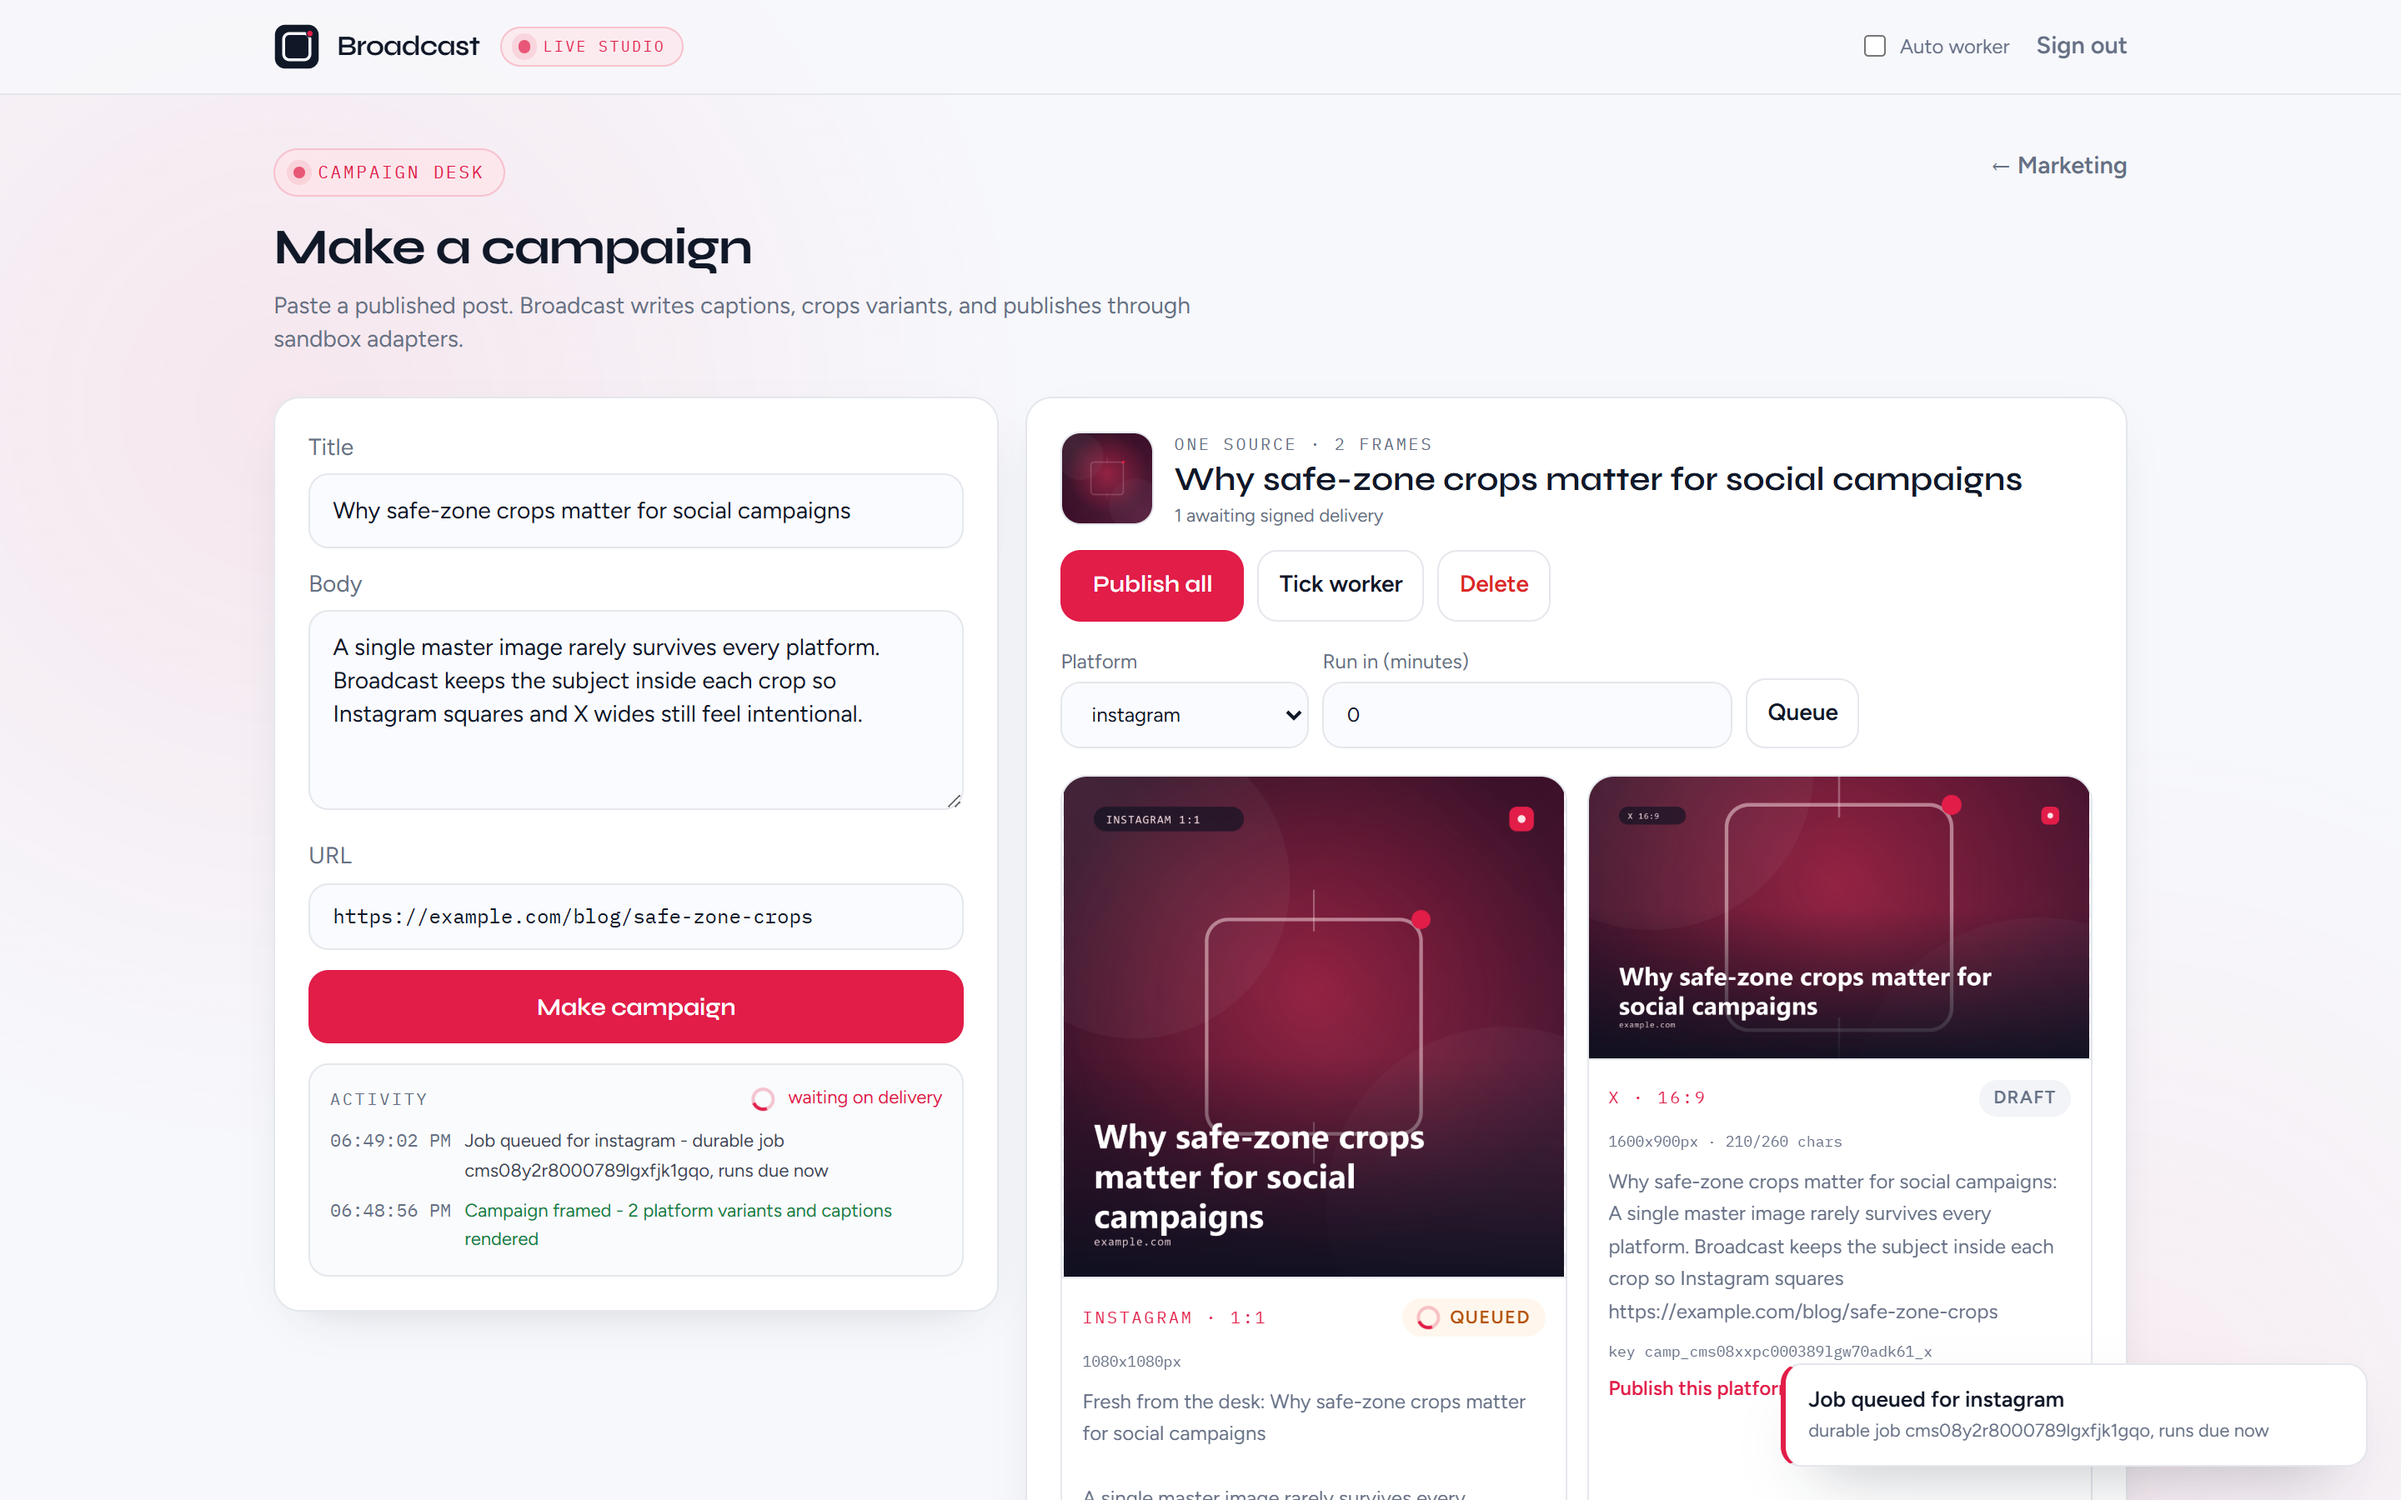
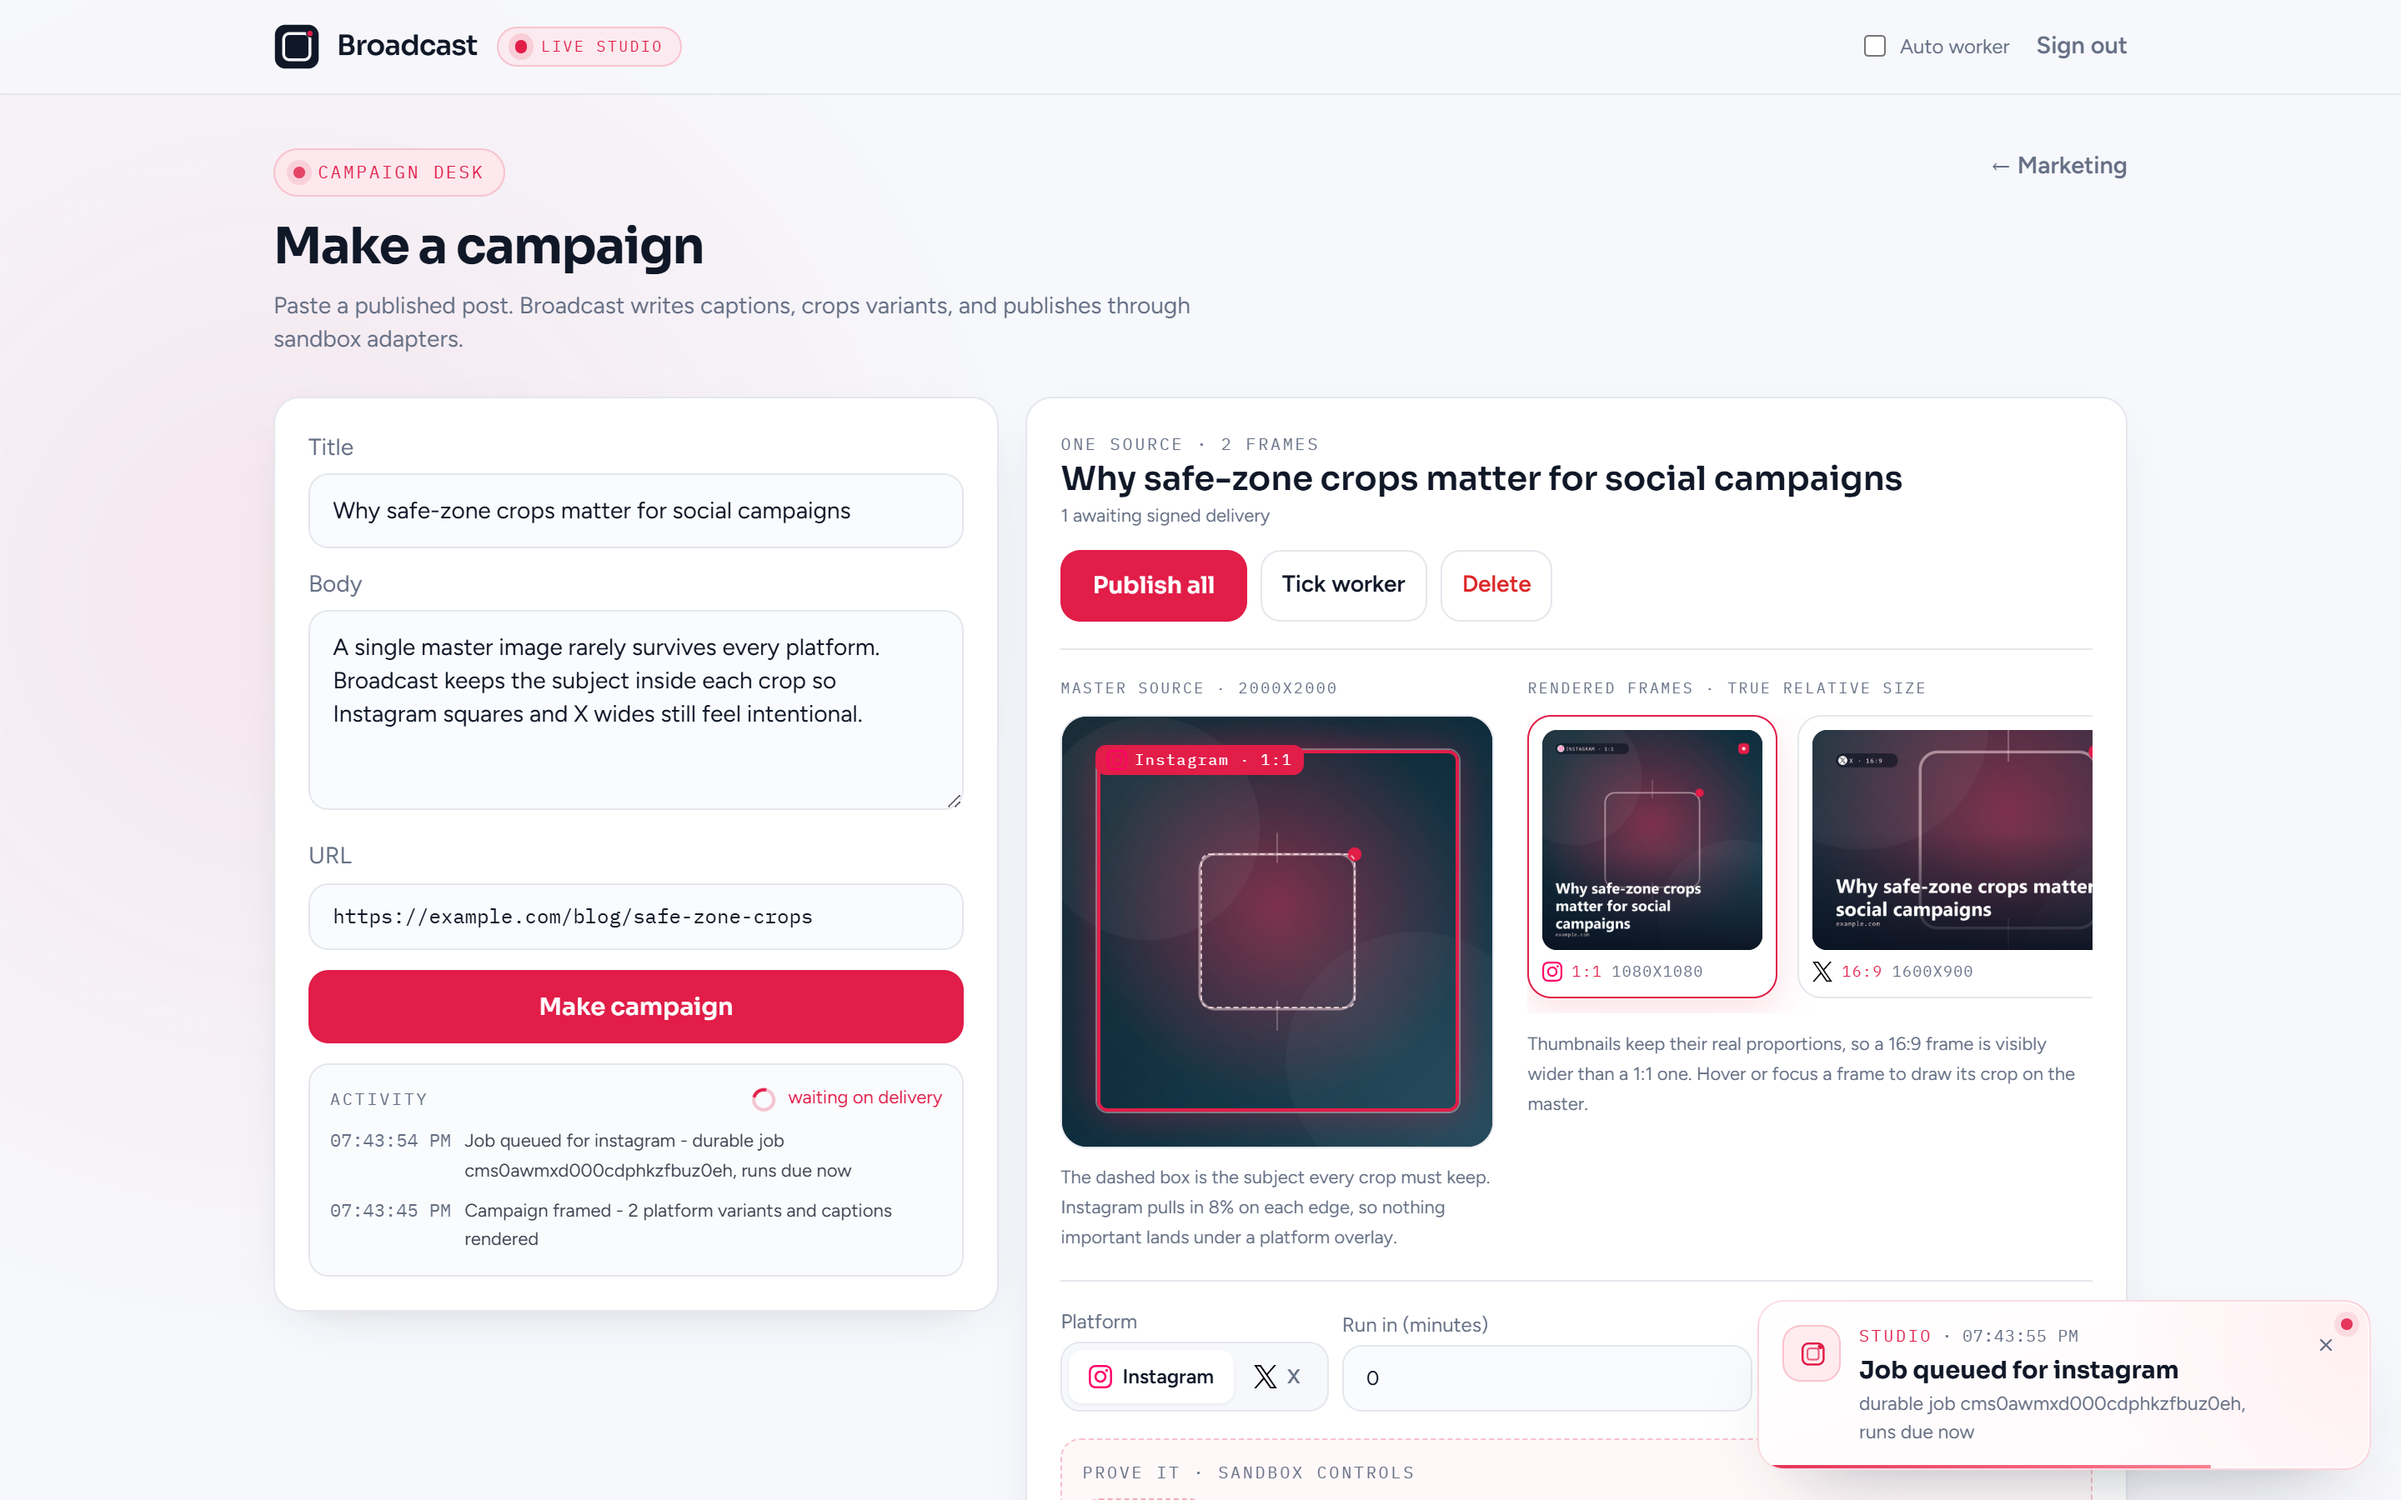
Document the frame studio, caption edits, and sandbox controls with real screenshots

diff --git a/README.md b/README.md
@@ -26,9 +26,25 @@ Broadcast is that studio. Paste a published post, get platform-sized variants an
 
 ## Campaign desk
 
+A first visit does not drop you on an empty board. Three steps tell you exactly what to press, and the form arrives pre-filled so **Make campaign** works immediately.
+
+![Broadcast campaign desk on first run, showing a pre-filled form and a three step guide](docs/images/broadcast-firstrun.png)
+
 Sign in with the demo API key and paste a post. One source image becomes two frames: a 1:1 Instagram render and a 16:9 X render, each previewed at its true aspect ratio with its own caption, pixel size, and character budget.
 
 ![Broadcast campaign desk showing one source rendered into a 1:1 Instagram frame and a 16:9 X frame](docs/images/broadcast-campaign.png)
+
+### One source, every frame
+
+The crop is not a claim in the copy, it is drawn on the master image. The dashed box is the subject every crop has to keep, the rose box is the region a platform actually takes, and the rail on the right holds the rendered frames at their true relative size, so a 16:9 render is visibly wider than a 1:1 one. Hover a frame to pin its crop. The overlay and the render pipeline share one `computeCrop` implementation, and a test asserts they agree.
+
+![Broadcast frame studio showing the Instagram crop drawn on the master source image beside true-size rendered frames](docs/images/broadcast-frames.png)
+
+### Editable captions
+
+Generated copy is a starting point, not a verdict. Edit either caption in place and save. The idempotency key never changes, so republishing edited copy is a replay against the platform rather than a second remote post.
+
+![Broadcast post cards with the Instagram caption open for editing beside the published X caption](docs/images/broadcast-caption-edit.png)
 
 Nothing happens silently. Queue a platform and the durable job id, the countdown, a spinner on the queued row, and a toast all say so. Switch **Auto worker** off to hold a job in the queue and inspect it.
 
@@ -39,6 +55,14 @@ When the fake platform returns a signature-verified delivery webhook, the row fl
 ![Broadcast campaign board with both platforms published and a timestamped activity log](docs/images/broadcast-published.png)
 
 ![Broadcast platform board showing published Instagram and X variants with remote ids and delivery times](docs/images/broadcast-board.png)
+
+### Sandbox controls
+
+The three hardest guarantees are usually buried in a test run. Here they are buttons. **Force 429** puts the platform into rate-limited mode so the next publish visibly waits on `Retry-After`. **Replay webhook** asks the platform to re-send the same signed delivery, and the row stays published instead of duplicating. **Forge webhook** sends a well-formed payload signed with the wrong secret to the real webhook route, which answers `400 Invalid signature` and leaves the status untouched.
+
+![Broadcast sandbox controls panel with a Force 429 toggle](docs/images/broadcast-sandbox-controls.png)
+
+![Broadcast campaign board with a notice reading forged webhook rejected, wrong secret returned 400 Invalid signature](docs/images/broadcast-prove-it.png)
 
 ## Auth choice
 
@@ -102,7 +126,7 @@ Or trigger one claim from the campaign desk (**Tick worker**) / `POST /api/worke
 pnpm test
 ```
 
-Six checks: Instagram/X output dimensions, the subject staying inside both platform crops, distinct fragment captions, webhook signature accept and reject, idempotent publish, and 429 backoff (fake platform must be running).
+Eight checks: Instagram/X output dimensions, the subject staying inside both platform crops, the desk overlay matching the crop the pipeline cuts, caption edits preserving the idempotency key, distinct fragment captions, webhook signature accept and reject, idempotent publish, and 429 backoff (fake platform must be running).
 
 Render a pair of variants without the app:
 
@@ -116,6 +140,8 @@ pnpm preview:variants
 Create a campaign in the UI, publish Instagram twice. The fake platform keeps one remote post for that idempotency key. The Vitest suite covers the same path against `:4100`.
 
 **Forged webhook**
+
+Press **Forge webhook** on any post card, or from the shell:
 
 ```bash
 curl -s -o /dev/null -w "%{http_code}\n" \
@@ -131,6 +157,8 @@ curl -s -o /dev/null -w "%{http_code}\n" \
 Switch **Auto worker** off, queue a platform with **Run in (minutes) = 0**, and the row sits at `queued` with its durable job id. Press **Tick worker**: the job claims, publishes once, and the signed delivery webhook flips status to `published`. Leaving Auto worker on runs the same claim loop every three seconds.
 
 **Force 429**
+
+Press **Force 429** in the sandbox controls panel, or from the shell:
 
 ```bash
 curl -s -X POST http://localhost:4100/admin/force-429 \
@@ -163,12 +191,13 @@ Broadcast Frame: rose accent `#E11D48`, Sora + Figtree, crop-frame + live-corner
 ## Demo script
 
 1. Start from a blog post -> **Make campaign**
-2. Show square vs wide images and different captions
-3. Schedule one for later -> tick worker
-4. Publish twice -> one remote post
-5. Force 429 -> watch backoff
-6. Fire a forged delivery webhook (`400`), then accept a valid one (`published`)
-7. Close on a green board - zero real accounts touched
+2. Hover the frame rail to show one source becoming a 1:1 and a 16:9 crop
+3. Edit a caption -> save -> show the idempotency key did not move
+4. Schedule one for later -> tick worker
+5. Publish twice -> one remote post
+6. **Force 429** -> publish -> watch backoff
+7. **Forge webhook** (`400`, status untouched), then **Replay webhook** (still one remote post)
+8. Close on a green board - zero real accounts touched
 
 ## Stack
 

diff --git a/docs/ARCHITECTURE.md b/docs/ARCHITECTURE.md
@@ -9,6 +9,9 @@
 - Publishers: `SocialPublisher` interface + Instagram/X adapters against the fake platform
 - Workers: durable schedule claims with lock + done flags
 
+Crop geometry lives in `lib/images/geometry.ts` with no `sharp` or `fs` imports, so the
+render pipeline and the campaign desk overlay compute identical rectangles.
+
 ## Publish path
 
 ```
@@ -23,6 +26,14 @@ blog post -> captions + variants -> SocialPost (draft)
 - Idempotency key unique per (campaign, platform)
 - 429 honors Retry-After with backoff
 - Webhook HMAC SHA-256; forgeries return 400
+- Caption edits never rotate the idempotency key, so republishing edited copy replays
+
+## Sandbox controls
+
+`POST /api/demo` exposes three levers behind the demo session: `force429` flips the
+platform into rate-limited mode, `replayWebhook` asks it to re-send a signed delivery,
+and `forgeWebhook` posts a wrong-secret payload at the real webhook route and reports
+the status it got back. Each one runs the production path rather than faking a result.
 
 ## Fake platform
 
